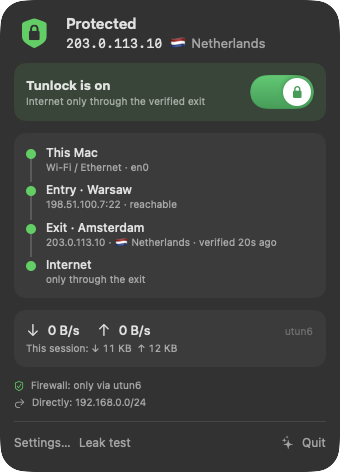
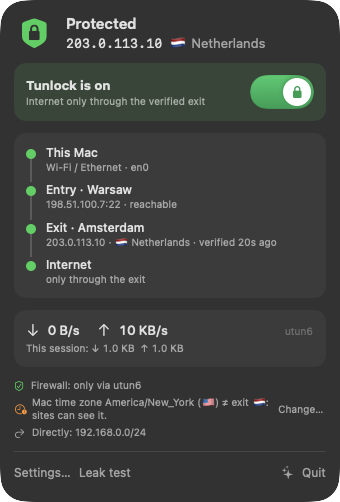
Close the tunnel before sleep, signed releases, wider leak test
Before the Mac sleeps the tunnel closes and reopens only after a fresh exit
check (tunlock-sleepwatch helper). Release DMGs are built on CI with
SHA256SUMS and an Ed25519 signature, see docs/RELEASES.md. The leak test
also checks what claude.ai, api.anthropic.com and chatgpt.com see, the DNS
resolver and the time zone; the menu warns when the time zone differs from
the exit country. Screenshots updated.

diff --git a/app/Sources/Tunlock/SettingsView.swift b/app/Sources/Tunlock/SettingsView.swift
@@ -126,6 +126,7 @@ struct SettingsView: View {
                         Button(L("Pin this exit instead: \(ip) \(flagEmoji(seenCountry))",
                                  "Закрепить вместо этого выход: \(ip) \(flagEmoji(seenCountry))"), action: pinSeen)
                     }
+                    aiSeenRows
                 }
                 if !config.extras.isEmpty {
                     Section {
@@ -487,6 +488,7 @@ struct SettingsView: View {
                     Button(L("Pin this exit: \(ip) \(flagEmoji(seenCountry))", "Закрепить этот выход: \(ip) \(flagEmoji(seenCountry))"), action: pinSeen)
                         .buttonStyle(.borderedProminent)
                 }
+                aiSeenRows
             } header: {
                 Text(L("Current exit", "Текущий выход"))
             } footer: {
@@ -762,16 +764,25 @@ struct SettingsView: View {
     /// Which check is current; results of an older one (another draft, another
     /// interface) are dropped when they arrive.
     @State private var checkToken = UUID()
+    /// What the AI services saw in the last check.
+    @State private var aiSeen: [(host: String, ip: String, country: String)] = []
 
     private func checkIP() {
         ipCheck = .running
         seenIP = nil
         seenCountry = ""
+        aiSeen = []
         let c = config, token = UUID()
         checkToken = token
         Task {
             let result = await Task.detached { probeExit(tunAddr: c.tunAddr) }.value
             guard token == checkToken, clean(config.tunAddr) == clean(c.tunAddr) else { return }
+            if case .seen = result {
+                Task {
+                    let ai = await Task.detached { probeAIHosts(tunAddr: c.tunAddr) }.value
+                    if token == checkToken { aiSeen = ai }
+                }
+            }
             switch result {
             case .notTun:
                 ipCheck = .failed(L("\(clean(c.tunAddr)) is not a TUN interface right now: turn the TUN app on",
@@ -789,9 +800,24 @@ struct SettingsView: View {
         }
     }
 
+    /// What Claude, the Anthropic API and ChatGPT see: TUN apps can route them
+    /// another way than the probe.
+    @ViewBuilder
+    private var aiSeenRows: some View {
+        ForEach(aiSeen, id: \.host) { s in
+            let ok = !s.ip.isEmpty && config.exitMatches(ip: s.ip, country: s.country)
+            LabeledContent(L("\(s.host) sees", "\(s.host) видит")) {
+                Label(s.ip.isEmpty ? L("no answer", "нет ответа") : "\(s.ip) \(flagEmoji(s.country))",
+                      systemImage: ok ? "checkmark.circle.fill" : "exclamationmark.triangle.fill")
+                    .foregroundStyle(ok ? .green : .orange)
+            }
+        }
+    }
+
     /// Forget what was checked: the config it belonged to is gone.
     private func resetCheck() {
         checkToken = UUID()
+        aiSeen = []
         ipCheck = .idle
         seenIP = nil
         seenCountry = ""
@@ -828,7 +854,9 @@ enum LeakResult {
     case pass, fail, incomplete, baseline, didNotRun
 
     init(output: String) {
-        let result = output.split(separator: "\n").last { $0.hasPrefix("RESULT=") }.map { String($0.dropFirst(7)) }
+        let result = output.split(whereSeparator: { $0.isNewline })
+            .last { $0.hasPrefix("RESULT=") }
+            .map { String($0.dropFirst(7)) }
         switch result {
         case "pass": self = .pass
         case "fail": self = .fail

diff --git a/app/Sources/Tunlock/Backend.swift b/app/Sources/Tunlock/Backend.swift
@@ -362,14 +362,32 @@ enum ExitProbe: Equatable {
 
 func probeExit(tunAddr: String) -> ExitProbe {
     guard let tun = tunInterfaces().first(where: { $0.address == clean(tunAddr) }) else { return .notTun }
+    let r = cloudflareTrace("https://1.1.1.1/cdn-cgi/trace", interface: tun.name)
+    return r.ip.isEmpty ? .noAnswer : .seen(ip: r.ip, country: r.country)
+}
+
+/// AI services behind Cloudflare: what address each of them sees through the
+/// TUN interface. A TUN app's routing rules may send them another way than the probe.
+let aiHosts = ["claude.ai", "api.anthropic.com", "chatgpt.com"]
+
+func probeAIHosts(tunAddr: String) -> [(host: String, ip: String, country: String)] {
+    guard let tun = tunInterfaces().first(where: { $0.address == clean(tunAddr) }) else { return [] }
+    return aiHosts.map { host in
+        let r = cloudflareTrace("https://\(host)/cdn-cgi/trace", interface: tun.name)
+        return (host, r.ip, r.country)
+    }
+}
+
+/// One /cdn-cgi/trace request bound to an interface by name.
+func cloudflareTrace(_ url: String, interface: String) -> (ip: String, country: String) {
     let p = Process()
     p.executableURL = URL(fileURLWithPath: "/usr/bin/curl")
-    p.arguments = ["-4fsS", "--noproxy", "*", "--interface", "if!\(tun.name)",
-                   "--connect-timeout", "4", "--max-time", "6", "https://1.1.1.1/cdn-cgi/trace"]
+    p.arguments = ["-4fsS", "--noproxy", "*", "--interface", "if!\(interface)",
+                   "--connect-timeout", "4", "--max-time", "6", url]
     let pipe = Pipe()
     p.standardOutput = pipe
     p.standardError = FileHandle.nullDevice
-    guard (try? p.run()) != nil else { return .noAnswer }
+    guard (try? p.run()) != nil else { return ("", "") }
     let out = String(decoding: pipe.fileHandleForReading.readDataToEndOfFile(), as: UTF8.self)
     p.waitUntilExit()
     var ip = "", cc = ""
@@ -377,5 +395,17 @@ func probeExit(tunAddr: String) -> ExitProbe {
         if line.hasPrefix("ip=") { ip = String(line.dropFirst(3)) }
         if line.hasPrefix("loc=") { cc = String(line.dropFirst(4)) }
     }
-    return ip.isEmpty ? .noAnswer : .seen(ip: ip, country: cc)
+    return (ip, cc)
+}
+
+/// The Mac's time zone and its country (from the system's zone.tab). Sites can
+/// read the browser's time zone; one far from the exit's country stands out.
+func macTimeZone() -> (zone: String, country: String) {
+    let zone = TimeZone.current.identifier
+    guard let tab = try? String(contentsOfFile: "/usr/share/zoneinfo/zone.tab", encoding: .utf8) else { return (zone, "") }
+    for line in tab.split(separator: "\n") where !line.hasPrefix("#") {
+        let f = line.split(separator: "\t")
+        if f.count >= 3, f[2] == zone { return (zone, String(f[0])) }
+    }
+    return (zone, "")
 }

diff --git a/app/Helpers/SleepWatch.swift b/app/Helpers/SleepWatch.swift
@@ -1,0 +1,61 @@
+// tunlock-sleepwatch: run by the guard (as root). When the Mac is about to
+// sleep it writes RUN_DIR/sleep-request and holds the sleep (up to 5 s) until
+// the guard answers with RUN_DIR/sleep-ack, i.e. the tunnel is closed. On wake
+// it removes the request; the guard reopens only after a fresh exit check.
+// Waking on another network, the TUN app may reconnect anywhere: nothing may
+// flow through it before that check.
+import Foundation
+import IOKit
+import IOKit.pwr_mgt
+
+// IOKit message ids (macros, not imported into Swift).
+let kCanSystemSleep: UInt32 = 0xE000_0270
+let kSystemWillSleep: UInt32 = 0xE000_0280
+let kSystemHasPoweredOn: UInt32 = 0xE000_0300
+
+guard CommandLine.arguments.count > 1 else {
+    FileHandle.standardError.write("usage: tunlock-sleepwatch RUN_DIR\n".data(using: .utf8)!)
+    exit(2)
+}
+let runDir = CommandLine.arguments[1]
+let request = runDir + "/sleep-request"
+let ack = runDir + "/sleep-ack"
+var rootPort: io_connect_t = 0
+
+func log(_ s: String) {
+    let f = DateFormatter()
+    f.dateFormat = "yyyy-MM-dd HH:mm:ss"
+    print("\(f.string(from: Date())) sleepwatch: \(s)")
+    fflush(stdout)
+}
+
+let callback: IOServiceInterestCallback = { _, _, messageType, argument in
+    switch messageType {
+    case kCanSystemSleep:
+        IOAllowPowerChange(rootPort, Int(bitPattern: argument))
+    case kSystemWillSleep:
+        try? FileManager.default.removeItem(atPath: ack)
+        FileManager.default.createFile(atPath: request, contents: Data("\(Date().timeIntervalSince1970)\n".utf8))
+        let deadline = Date().addingTimeInterval(5)
+        while !FileManager.default.fileExists(atPath: ack), Date() < deadline { usleep(100_000) }
+        log(FileManager.default.fileExists(atPath: ack) ? "tunnel closed, sleeping" : "no answer from the guard in 5 s, sleeping anyway")
+        IOAllowPowerChange(rootPort, Int(bitPattern: argument))
+    case kSystemHasPoweredOn:
+        try? FileManager.default.removeItem(atPath: request)
+        try? FileManager.default.removeItem(atPath: ack)
+        log("woke up: the guard checks the exit before reopening")
+    default:
+        break
+    }
+}
+
+var notifyPort: IONotificationPortRef?
+var notifier: io_object_t = 0
+rootPort = IORegisterForSystemPower(nil, &notifyPort, callback, &notifier)
+guard rootPort != 0, let port = notifyPort else {
+    log("cannot register for sleep notifications")
+    exit(1)
+}
+CFRunLoopAddSource(CFRunLoopGetCurrent(), IONotificationPortGetRunLoopSource(port).takeUnretainedValue(), .defaultMode)
+log("watching sleep for \(runDir)")
+CFRunLoopRun()

diff --git a/app/Sources/Tunlock/MCP.swift b/app/Sources/Tunlock/MCP.swift
@@ -92,7 +92,7 @@ enum MCPServer {
          "description": "Check that a proxy answers on IP:port (TCP). Only IP and port: never ask for or pass the proxy's login or password.",
          "inputSchema": schema(["host": str, "port": str], required: ["host", "port"])],
         ["name": "check_exit",
-         "description": "Ask 1.1.1.1 through a TUN interface's address which exit IP and country the traffic has.",
+         "description": "Through a current TUN interface only: the exit IP and country (1.1.1.1), what claude.ai, api.anthropic.com and chatgpt.com see, and the Mac's time zone (sites can read it; one far from the exit's country stands out).",
          "inputSchema": schema(["tun_addr": str], required: ["tun_addr"])],
         ["name": "validate_config",
          "description": "Validate a complete tunlock.conf (KEY=value lines) with the same parser the root guard uses. Returns the errors, or the effective settings and the firewall rules each phase would load. Changes nothing.",
@@ -193,7 +193,10 @@ enum MCPServer {
         case .noAnswer:
             return ("No answer through \(tunAddr): is the TUN app on and connected?", true)
         case .seen(let ip, let country):
-            return (json(["exit_ip": ip, "exit_country": country]), false)
+            let ai = probeAIHosts(tunAddr: tunAddr).map { ["host": $0.host, "ip": $0.ip, "country": $0.country] }
+            let tz = macTimeZone()
+            return (json(["exit_ip": ip, "exit_country": country, "seen_by_ai_services": ai,
+                          "mac_time_zone": tz.zone, "mac_time_zone_country": tz.country]), false)
         }
     }
 

diff --git a/app/Sources/Tunlock/MenuView.swift b/app/Sources/Tunlock/MenuView.swift
@@ -290,6 +290,21 @@ struct MenuView: View {
                     Text(L("Firewall: ", "Файрвол: ") + firewall(s))
                 }
             }
+            if v == .protected, let cc = s["egress_country"], cc.count == 2 {
+                let tz = macTimeZone()
+                if !tz.country.isEmpty, tz.country != cc {
+                    HStack(spacing: 6) {
+                        Image(systemName: "clock.badge.exclamationmark").foregroundStyle(.orange)
+                        Text(L("Mac time zone \(tz.zone) (\(flagEmoji(tz.country))) ≠ exit \(flagEmoji(cc)): sites can see it.",
+                               "Часовой пояс Mac \(tz.zone) (\(flagEmoji(tz.country))) ≠ выход \(flagEmoji(cc)): сайты это видят."))
+                            .fixedSize(horizontal: false, vertical: true)
+                        Button(L("Change…", "Изменить…")) {
+                            NSWorkspace.shared.open(URL(string: "x-apple.systempreferences:com.apple.Date-Time-Settings.extension")!)
+                        }
+                        .buttonStyle(.link)
+                    }
+                }
+            }
             if let bypass = s["bypass"], !bypass.isEmpty {
                 HStack(spacing: 6) {
                     Image(systemName: "arrow.uturn.right").foregroundStyle(.secondary)

diff --git a/README.md b/README.md
@@ -125,6 +125,13 @@ cp -R build/Tunlock.app /Applications/ && open /Applications/Tunlock.app
   and offers **Pin…**, but only for when you changed the server yourself.
 - **Notifications** tell you when the internet closes and when protection
   returns. Short blips under four seconds are not reported.
+- **What AI services see.** The exit check and the leak test also ask
+  `claude.ai`, `api.anthropic.com` and `chatgpt.com` which address reached them
+  (a TUN app's rules may route them differently), and the menu warns when the
+  Mac's time zone does not match the exit's country, since sites can read it.
+- **Before sleep** the tunnel closes; after waking it reopens only once the exit
+  is verified again. A Mac that wakes on another Wi-Fi sends nothing through a
+  tunnel that may have reconnected elsewhere.
 
 The build is ad-hoc signed and not notarized. A copy you build yourself opens
 normally. A downloaded copy needs right-click → **Open** the first time.
@@ -332,6 +339,12 @@ sleep, a Wi-Fi change, a utun renumber, reboot and uninstall.
   so SSH can reconnect.
 - **Exit, not identity:** Tunlock controls where traffic leaves. Accounts,
   fingerprints, time zones and telemetry can still identify you.
+
+## Downloads
+
+GitHub Actions builds `Tunlock.dmg` with `SHA256SUMS.txt` (signed with Ed25519
+once the release key is set). See [docs/RELEASES.md](docs/RELEASES.md) to verify a
+download.
 
 ## Uninstall
 

diff --git a/docs/RELEASES.md b/docs/RELEASES.md
@@ -1,0 +1,30 @@
+# Verifying a release
+
+Every DMG is built on GitHub Actions, never on someone's computer. The build
+publishes `SHA256SUMS.txt` next to the DMG. Once the owner has set a release key,
+it also publishes `SHA256SUMS.txt.sig`, an Ed25519 signature made with a private
+key that only exists as a GitHub secret.
+
+Check the file you downloaded (OpenSSL 3: `brew install openssl@3`):
+
+```bash
+OPENSSL=$(brew --prefix openssl@3)/bin/openssl
+curl -fsSLO https://raw.githubusercontent.com/hunbow-n/tunlock/main/docs/tunlock-release.pem
+base64 -d < SHA256SUMS.txt.sig > SHA256SUMS.sig.bin
+"$OPENSSL" pkeyutl -verify -pubin -inkey tunlock-release.pem -rawin -in SHA256SUMS.txt -sigfile SHA256SUMS.sig.bin
+shasum -a 256 -c SHA256SUMS.txt
+```
+
+Both commands must succeed: `Signature Verified Successfully` and `Tunlock.dmg: OK`.
+A changed DMG fails the checksum; a changed checksum file fails the signature,
+even if someone took over the GitHub account, because the private key is not in it.
+
+## For the owner: set up the key once
+
+```bash
+tools/release-key.sh      # writes docs/tunlock-release.pem, prints the private key
+```
+
+Paste the private key into GitHub: Settings → Secrets and variables → Actions →
+New repository secret `TUNLOCK_RELEASE_KEY`. Commit `docs/tunlock-release.pem`.
+Without the secret, CI still publishes `SHA256SUMS.txt`, just unsigned.
